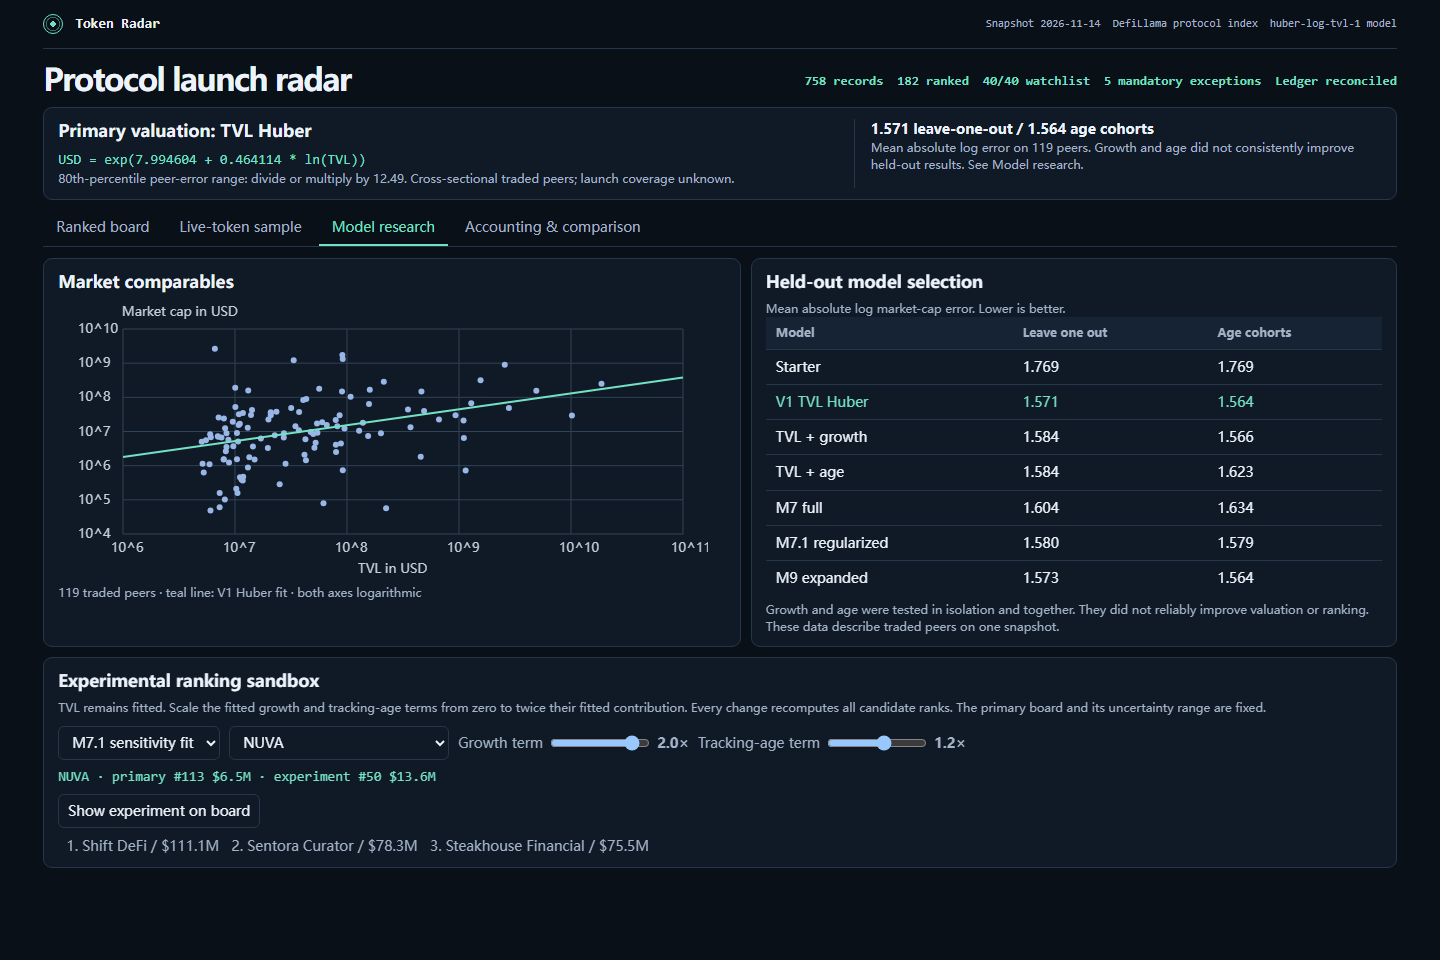
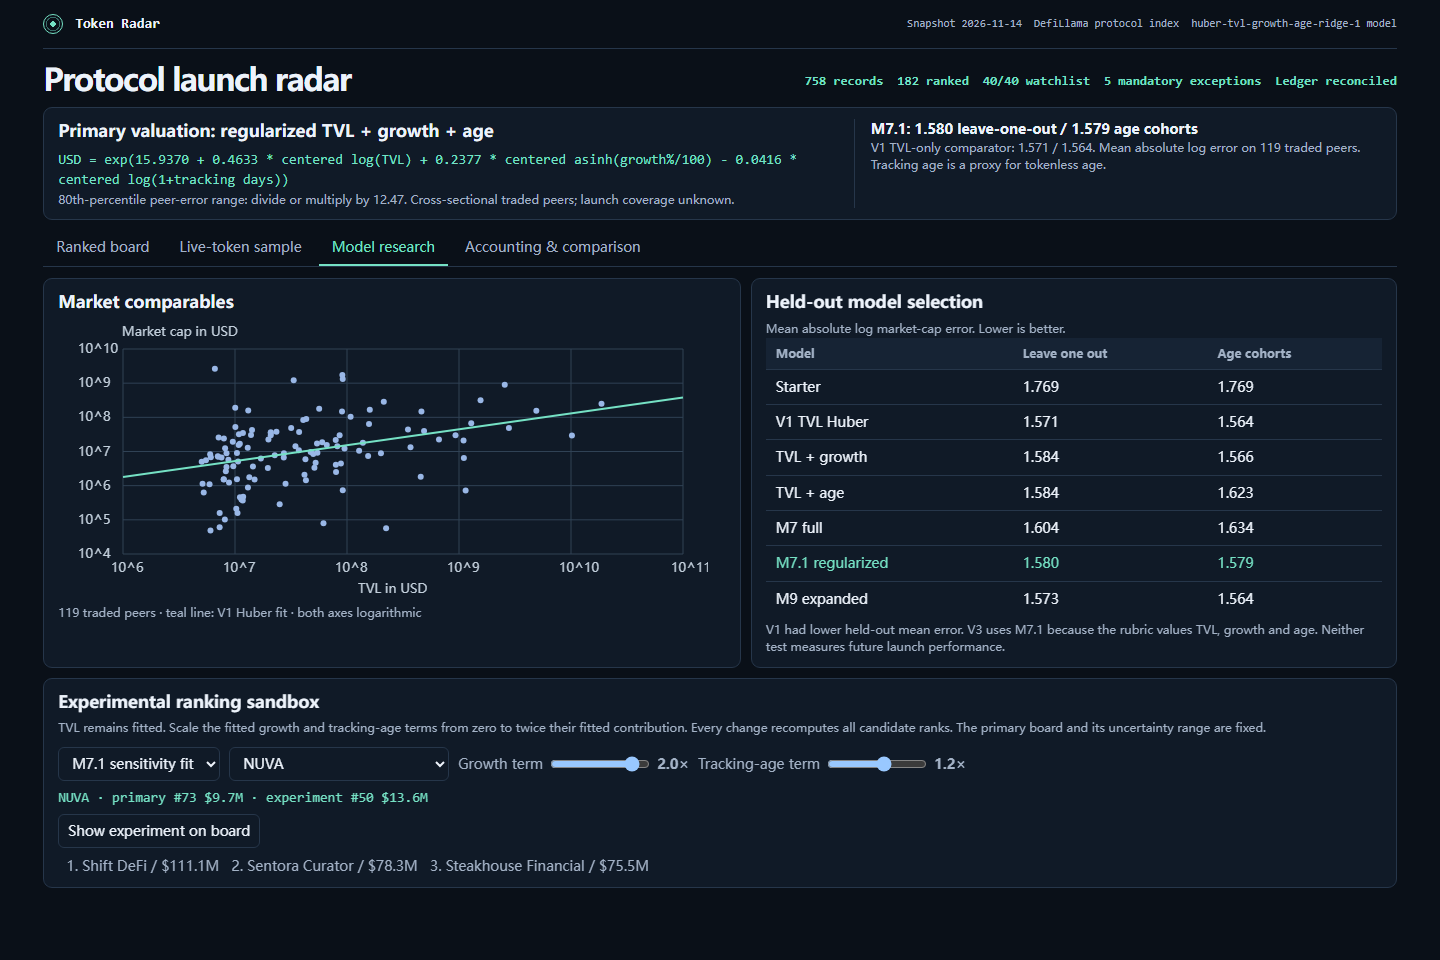
Use archived M7.1 valuation as Token Radar V3 primary

diff --git a/dashboard/app.js b/dashboard/app.js
@@ -28,10 +28,10 @@
   }
   // The model in one function: the page recomputes a row from the snapshot figures and checks the
   // number board.json carries, so the page's code and the board's data are visibly the same arithmetic.
-  function impliedOf(row, model, baseline, experimental) {
-    var fit = experimental ? sandboxFit : model.regression;
+  function impliedOf(row, model, baseline, experimental, tvlOnly) {
+    var fit = tvlOnly ? model.tvlComparator : experimental ? sandboxFit : model.regression;
     if (!baseline && fit && row.tvl_usd > 0) {
-      if (!experimental) return Math.max(1, Math.round(Math.exp(fit.intercept + fit.slope * Math.log(row.tvl_usd))));
+      if (tvlOnly) return Math.max(1, Math.round(Math.exp(fit.intercept + fit.slope * Math.log(row.tvl_usd))));
       var days = (Date.parse(DATA.as_of) - Date.parse(row.listed_at || '')) / 86400000;
       var inputs = {
         tvl: Math.log(row.tvl_usd),
@@ -42,7 +42,7 @@
       fit.terms.forEach(function (term) {
         parts[term.feature] = ((inputs[term.feature] == null ? term.center : inputs[term.feature]) - term.center) * term.coefficient;
       });
-      return Math.max(1, Math.round(Math.exp(fit.intercept + parts.tvl) * Math.exp(parts.growth * weights.growth) * Math.exp(parts.age * weights.age)));
+      return Math.max(1, Math.round(Math.exp(fit.intercept + parts.tvl) * Math.exp(parts.growth * (experimental ? weights.growth : 1)) * Math.exp(parts.age * (experimental ? weights.age : 1))));
     }
     var growth = Math.min(model.growth_cap, Math.max(model.growth_floor, row.change_7d === null || row.change_7d === undefined ? 0 : row.change_7d));
     var growthMult = 1 + (growth / 100) * model.growth_weight;
@@ -288,7 +288,7 @@
     peers.forEach(function (p) {
       ctx.beginPath(); ctx.arc(x(p[0]), y(p[1]), 3, 0, Math.PI * 2); ctx.fill();
     });
-    var fit = DATA.model.regression;
+    var fit = DATA.model.tvlComparator;
     ctx.strokeStyle = '#75e1c4'; ctx.lineWidth = 2; ctx.beginPath();
     ctx.moveTo(x(limits[0][0]), y(fit.intercept / Math.LN10 + fit.slope * limits[0][0]));
     ctx.lineTo(x(limits[0][1]), y(fit.intercept / Math.LN10 + fit.slope * limits[0][1]));
@@ -341,10 +341,10 @@
           el('table', null, el('thead', null, el('tr', null,
             el('th', { text: 'Model' }), el('th', { text: 'Leave one out' }), el('th', { text: 'Age cohorts' }))),
             el('tbody', null, Object.entries(labels).map(function (entry) {
-              return el('tr', { class: entry[0] === 'v1' ? 'chosen' : '' }, el('td', { text: entry[1] }),
+              return el('tr', { class: entry[0] === 'm71' ? 'chosen' : '' }, el('td', { text: entry[1] }),
                 el('td', { text: stats.loo[entry[0]].mean.toFixed(3) }), el('td', { text: stats.age[entry[0]].mean.toFixed(3) }));
             }))),
-          el('p', { class: 'sub', text: 'Growth and age were tested in isolation and together. They did not reliably improve valuation or ranking. These data describe traded peers on one snapshot.' }))),
+          el('p', { class: 'sub', text: 'V1 had lower held-out mean error. V3 uses M7.1 because the rubric values TVL, growth and age. Neither test measures future launch performance.' }))),
       el('section', { class: 'panel compact sandbox' },
         el('h2', { text: 'Experimental ranking sandbox' }),
         el('p', { class: 'sub', text: 'TVL remains fitted. Scale the fitted growth and tracking-age terms from zero to twice their fitted contribution. Every change recomputes all candidate ranks. The primary board and its uncertainty range are fixed.' }),
@@ -522,14 +522,16 @@
     var fit = DATA.model.regression;
     var scores = research.comparisons;
     return el('section', { class: 'panel model compact' },
-      el('div', null, el('h2', { text: 'Primary valuation: TVL Huber' }),
-        el('p', { class: 'formula', text: 'USD = exp(' + fit.intercept.toFixed(6) + ' + ' + fit.slope.toFixed(6) + ' * ln(TVL))' }),
+      el('div', null, el('h2', { text: 'Primary valuation: regularized TVL + growth + age' }),
+        el('p', { class: 'formula', text: 'USD = exp(' + fit.intercept.toFixed(4) + fit.terms.map(function (t) {
+          return (t.coefficient < 0 ? ' - ' : ' + ') + Math.abs(t.coefficient).toFixed(4) + ' * ' +
+            { tvl: 'centered log(TVL)', growth: 'centered asinh(growth%/100)', age: 'centered log(1+tracking days)' }[t.feature];
+        }).join('') + ')' }),
         el('p', { class: 'sub', text: '80th-percentile peer-error range: divide or multiply by ' + DATA.uncertainty.factor.toFixed(2) +
           '. Cross-sectional traded peers; launch coverage unknown.' })),
       el('div', { class: 'validation' },
-        el('p', null, el('strong', { text: scores.loo.v1.mean.toFixed(3) + ' leave-one-out / ' + scores.age.v1.mean.toFixed(3) + ' age cohorts' })),
-        el('p', { class: 'sub', text: 'Mean absolute log error on ' + research.peers.length +
-          ' peers. Growth and age did not consistently improve held-out results. See Model research.' })));
+        el('p', null, el('strong', { text: 'M7.1: ' + scores.loo.m71.mean.toFixed(3) + ' leave-one-out / ' + scores.age.m71.mean.toFixed(3) + ' age cohorts' })),
+        el('p', { class: 'sub', text: 'V1 TVL-only comparator: ' + scores.loo.v1.mean.toFixed(3) + ' / ' + scores.age.v1.mean.toFixed(3) + '. Mean absolute log error on ' + research.peers.length + ' traded peers. Tracking age is a proxy for tokenless age.' })));
   }
 
   function farmingCalculator(slug) {
@@ -636,6 +638,7 @@
         el('div', null, el('span', { text: 'Tracking age' }), el('b', { class: 'num', text: fmtAge(row.age_days) })),
         el('div', null, el('span', { text: 'Huber implied value' }), el('b', { class: 'num', text: fmtUsd(row.implied_value_usd) })),
         DATA.model.experimental && row.tvl_usd > 0 ? el('div', null, el('span', { text: 'Experimental fit' }), el('b', { class: 'num', text: fmtUsd(impliedOf(row, DATA.model, false, true)) })) : null,
+        el('div', null, el('span', { text: 'V1 TVL-only' }), el('b', { class: 'num', text: fmtUsd(impliedOf(row, DATA.model, false, false, true)) })),
         el('div', null, el('span', { text: 'Original comparator' }), el('b', { class: 'num', text: fmtUsd(impliedOf(row, DATA.model, true)) }))
       ),
       DATA.uncertainty && row.tvl_usd > 0 ? el('p', { class: 'sub',

diff --git a/lib/model.ts b/lib/model.ts
@@ -8,11 +8,11 @@ import { classifyProtocols, VERSIONED, type Classification } from './classificat
 // snapshot's live-token protocols are kept apart and shown as the market's own values, never mixed into
 // the ranked board.
 //
-// Fit log market cap against log TVL for the primary board using the snapshot's live-token comparables.
+// Fit log market cap against TVL, growth and tracking age for the primary board using the snapshot's live-token comparables.
 // The starter formula remains available for comparison and as a fallback for a degenerate fit.
 
 import { FEATURES, fitMultivariate, fitValuation, isComparable, valuationParts } from './valuation.ts';
-import { selectPenalty } from './regularization.ts';
+import frozenReview from './frozen-model-review.json' with { type: 'json' };
 
 /** The snapshot's protocol entry: exactly the ten fields the sealed input carries. */
 export interface SnapshotProtocol {
@@ -61,7 +61,7 @@ export const MODEL: ModelConstants = {
 };
 
 /** The model's version label: the dashboard names it and the rules quote it. */
-export const MODEL_VERSION = 'huber-log-tvl-1';
+export const MODEL_VERSION = 'huber-tvl-growth-age-ridge-1';
 
 /** How many live-token protocols the Live token view carries, by market cap. */
 export const LIVE_ROWS = 24;
@@ -127,7 +127,8 @@ export interface RadarData {
   source: string;
   floor_usd: number;
   model: ModelConstants & {
-    regression: ReturnType<typeof fitValuation>;
+    regression: ReturnType<typeof fitMultivariate>;
+    tvlComparator: ReturnType<typeof fitValuation>;
     experimental: ReturnType<typeof fitMultivariate>;
   };
   model_version: string;
@@ -205,21 +206,13 @@ export interface BoardSummary {
 
 type RankingFit = NonNullable<ReturnType<typeof fitValuation> | ReturnType<typeof fitMultivariate>>;
 
-/** Empirical log-error envelope from held-out V1 predictions on traded peers. */
-function valuationUncertainty(peers: SnapshotProtocol[]): RadarData['uncertainty'] {
-  const level = 0.8;
-  const residuals = peers.map((row, i) => {
-    const fit = fitValuation(peers.filter((_, j) => i !== j));
-    if (!fit) return null;
-    const value = Math.max(1, Math.round(Math.exp(fit.intercept + fit.slope * Math.log(row.tvl_usd))));
-    return Math.abs(Math.log(row.mcap_usd!) - Math.log(value));
-  }).filter(x => x !== null).sort((a, b) => a - b);
-  if (!residuals.length || residuals.length !== peers.length) return null;
-  return { level, residuals: residuals.length, factor: Math.exp(residuals[Math.ceil(level * residuals.length) - 1]!) };
+/** Reuse the M7.1 penalty selected in the archived review without tuning it again. */
+function primaryFit(snapshot: Snapshot) {
+  return fitMultivariate(snapshot.protocols.filter(isComparable), snapshot.as_of, FEATURES, 1);
 }
 
 /** The protocols the board ranks, strongest first, with ranks 1..n. */
-export function buildBoard(snapshot: Snapshot, model: ModelConstants = MODEL, regression: RankingFit | null = fitValuation(snapshot.protocols.filter(isComparable)), classification = classifyProtocols(snapshot.protocols)): BoardRow[] {
+export function buildBoard(snapshot: Snapshot, model: ModelConstants = MODEL, regression: RankingFit | null = primaryFit(snapshot), classification = classifyProtocols(snapshot.protocols)): BoardRow[] {
   const index = bySlug(snapshot.protocols);
   const chosen = new Map<string, SnapshotProtocol>();
   // The watchlist is the floor: every slug, even one the snapshot no longer carries (it cannot, but the
@@ -320,8 +313,9 @@ export function radarRow(row: BoardRow): RadarRow {
 /** Everything the dashboard renders, from the snapshot. */
 export function buildRadar(snapshot: Snapshot, model: ModelConstants = MODEL): { board: BoardRow[]; radar: RadarData } {
   const peers = snapshot.protocols.filter(isComparable);
-  const regression = fitValuation(peers);
-  const experimental = fitMultivariate(peers, snapshot.as_of, FEATURES, selectPenalty(peers, snapshot.as_of).penalty);
+  const regression = primaryFit(snapshot);
+  const tvlComparator = fitValuation(peers);
+  const experimental = fitMultivariate(peers, snapshot.as_of, FEATURES, 100);
   const classification = classifyProtocols(snapshot.protocols);
   const board = buildBoard(snapshot, model, regression, classification);
   const live = liveRows(snapshot);
@@ -330,9 +324,9 @@ export function buildRadar(snapshot: Snapshot, model: ModelConstants = MODEL): {
     as_of: snapshot.as_of,
     source: snapshot.source,
     floor_usd: snapshot.floor_usd,
-    model: { ...model, regression, experimental },
+    model: { ...model, regression, tvlComparator, experimental },
     model_version: regression ? MODEL_VERSION : 'radar-1',
-    uncertainty: regression ? valuationUncertainty(peers) : null,
+    uncertainty: regression ? frozenReview.m71Uncertainty : null,
     analyzed_size: snapshot.protocols.length,
     watchlist_covered: board.length - early,
     watchlist_size: snapshot.watchlist.length,
